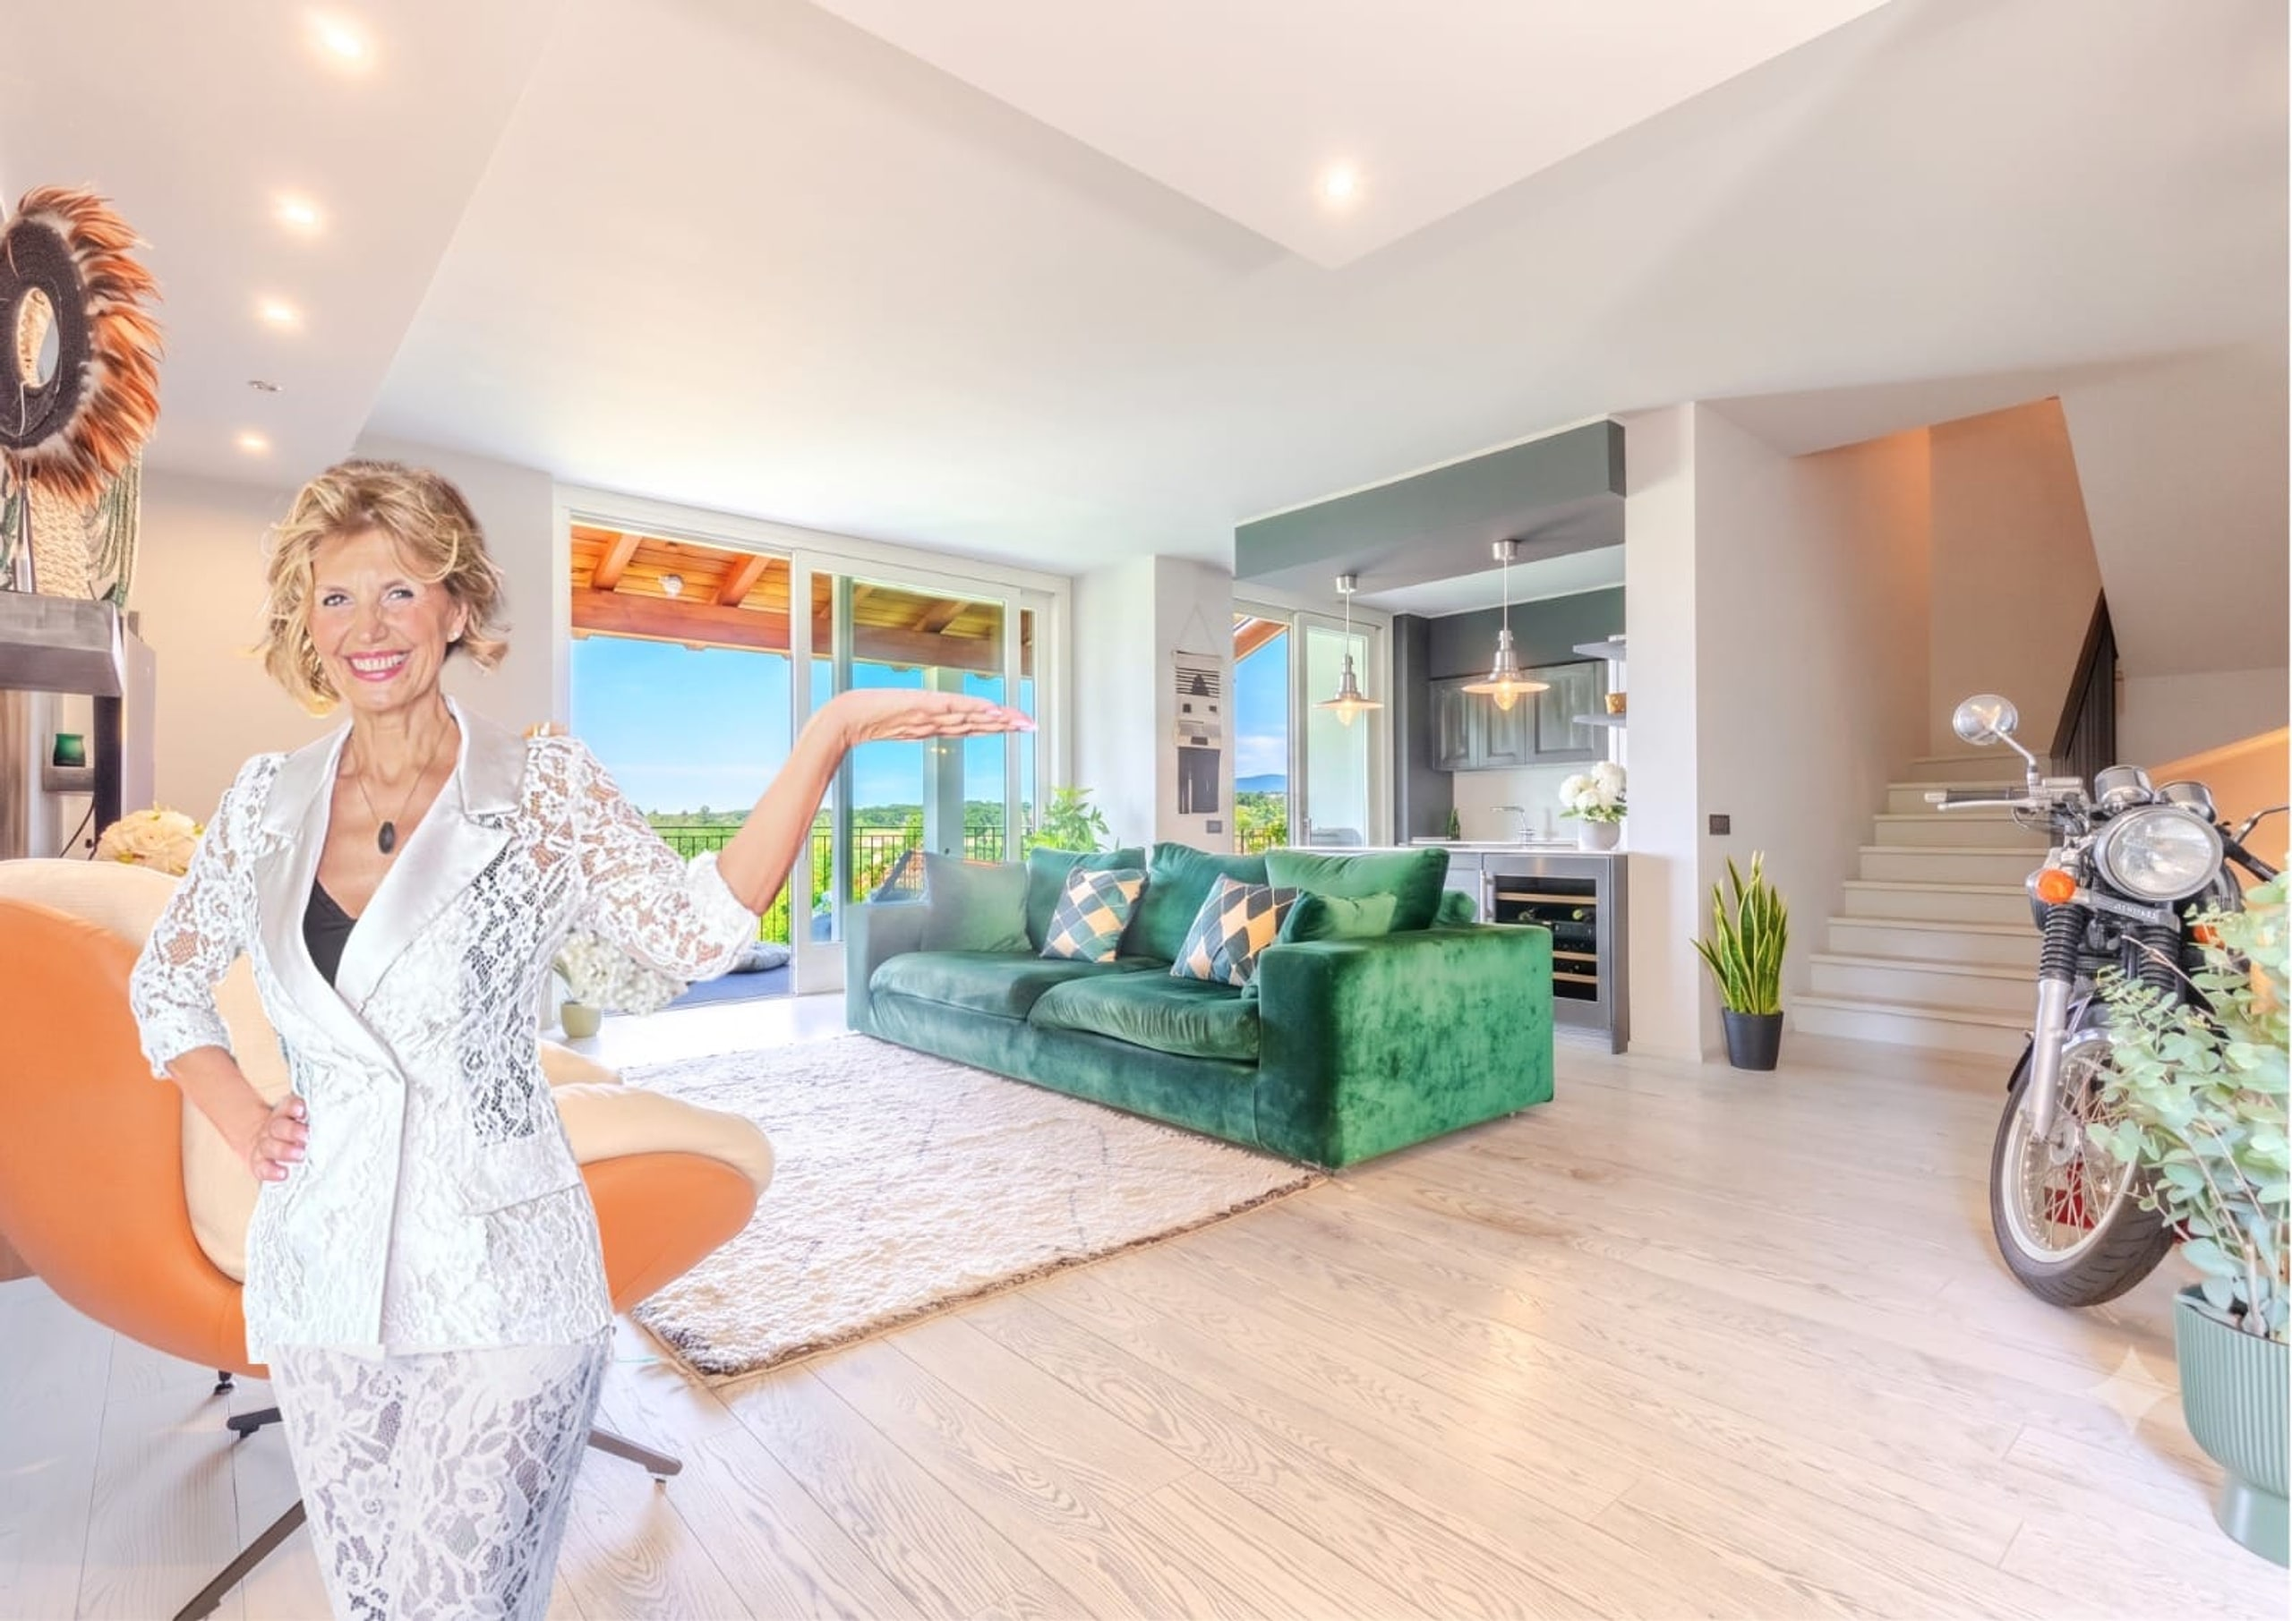
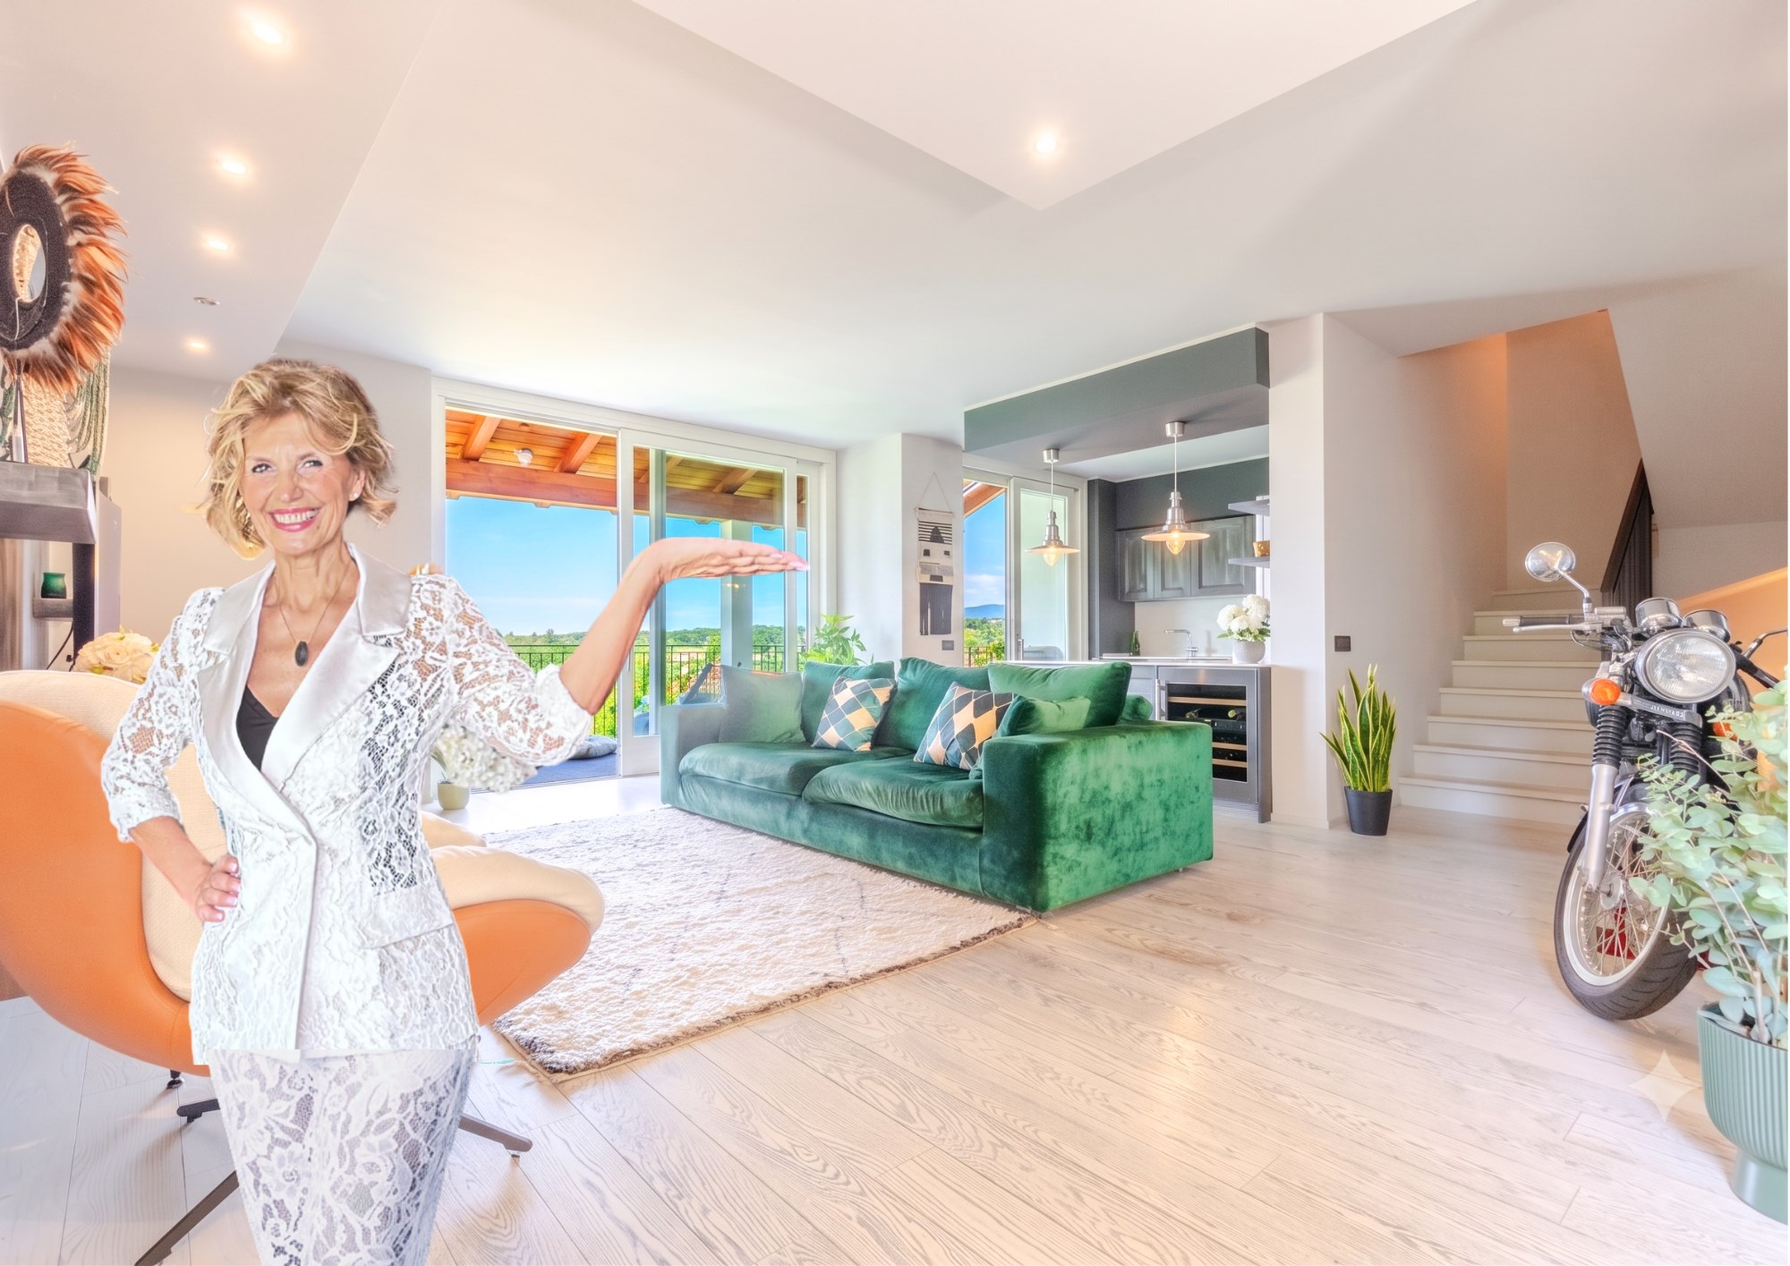
feat(hero): la foto HD del cliente e la sagoma con canale alpha nel preloader
La foto hero passa alla sorgente HD inviata dal cliente (2000x1415 lossless,
convertita in JPEG q90): meno pixel della vecchia ma piu dettaglio reale --
la precedente era un upscale compresso da WhatsApp. La sagoma del preloader
non e piu la foto intera dietro una mask sfumata: e il ritaglio con canale
alpha dello stesso canvas, quindi silhouette pulita sul fondo espresso e
coincidenza pixel su pixel quando l'arco la attraversa.

diff --git a/app/components/motion/Preloader.tsx b/app/components/motion/Preloader.tsx
@@ -385,23 +385,18 @@ export default function Preloader() {
         />
         <div className="grain !absolute !z-0" aria-hidden />
 
-        {/* La "sagoma" di Raffaela, a sinistra: è la FOTO VERA dell'hero,
-            visibile solo nella sua zona (mask sfumata), con la stessa
-            geometria object-cover dell'immagine sotto — quando l'arco la
-            attraversa, sagoma e foto coincidono e la stanza "torna". */}
+        {/* La "sagoma" di Raffaela: il RITAGLIO con canale alpha della stessa
+            foto dell'hero (stesso canvas 2000×1415, fornito dal cliente), con
+            la stessa geometria object-cover dell'immagine sotto — silhouette
+            pulita sul fondo del preloader, e quando l'arco la attraversa
+            sagoma e foto coincidono pixel su pixel: la stanza "torna". */}
         <div data-pre-figure className="absolute inset-0" style={{ opacity: 0 }}>
           {/* eslint-disable-next-line @next/next/no-img-element */}
           <img
-            src="/media/hero-raffaela.jpg"
+            src="/media/raffaela-sagoma.png"
             alt=""
             className="h-full w-full object-cover"
-            style={{
-              objectPosition: "50% 70%",
-              maskImage:
-                "radial-gradient(42vw 80vh at 17% 50%, #000 40%, transparent 70%)",
-              WebkitMaskImage:
-                "radial-gradient(42vw 80vh at 17% 50%, #000 40%, transparent 70%)",
-            }}
+            style={{ objectPosition: "50% 70%" }}
           />
         </div>
 
